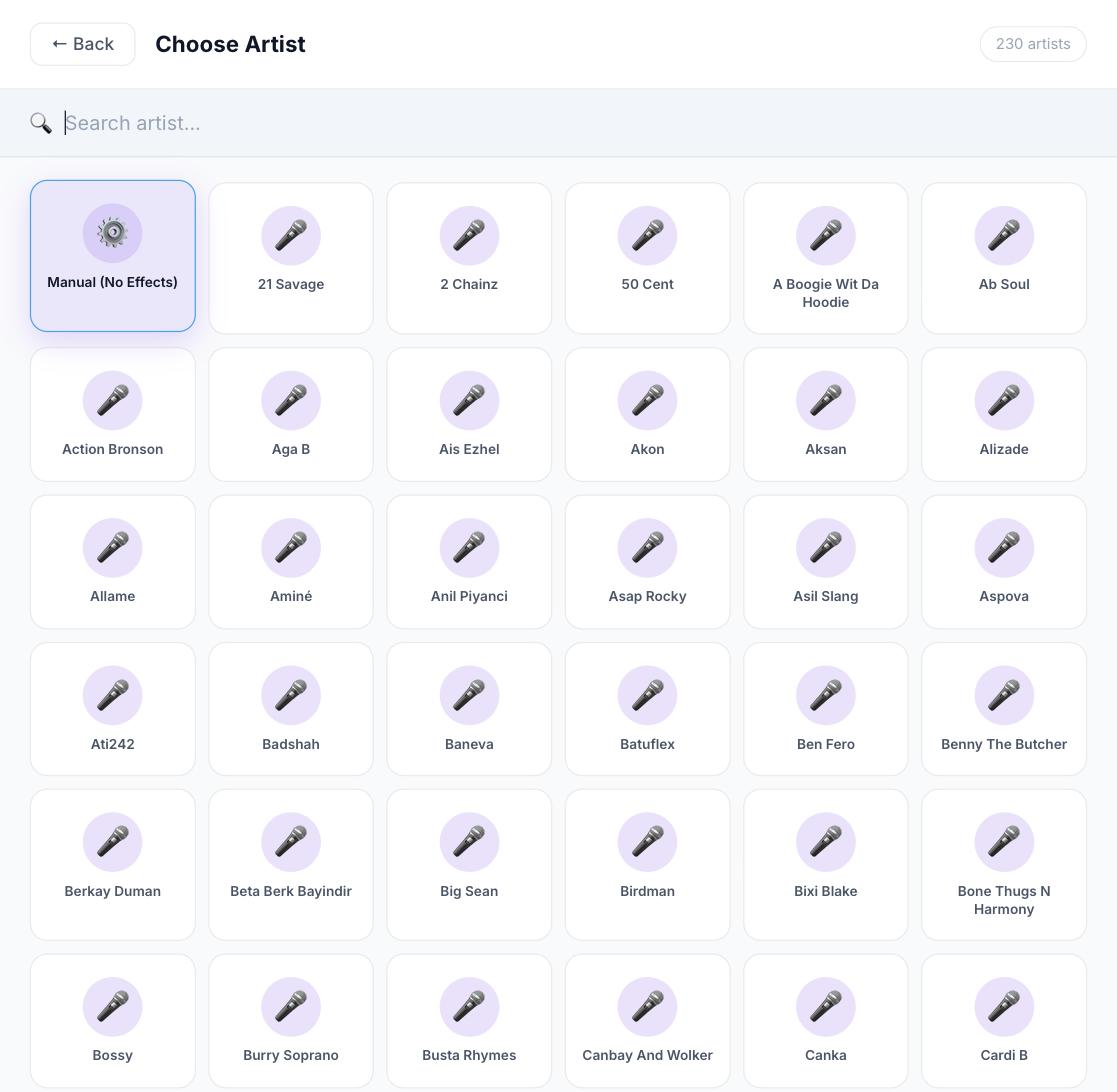
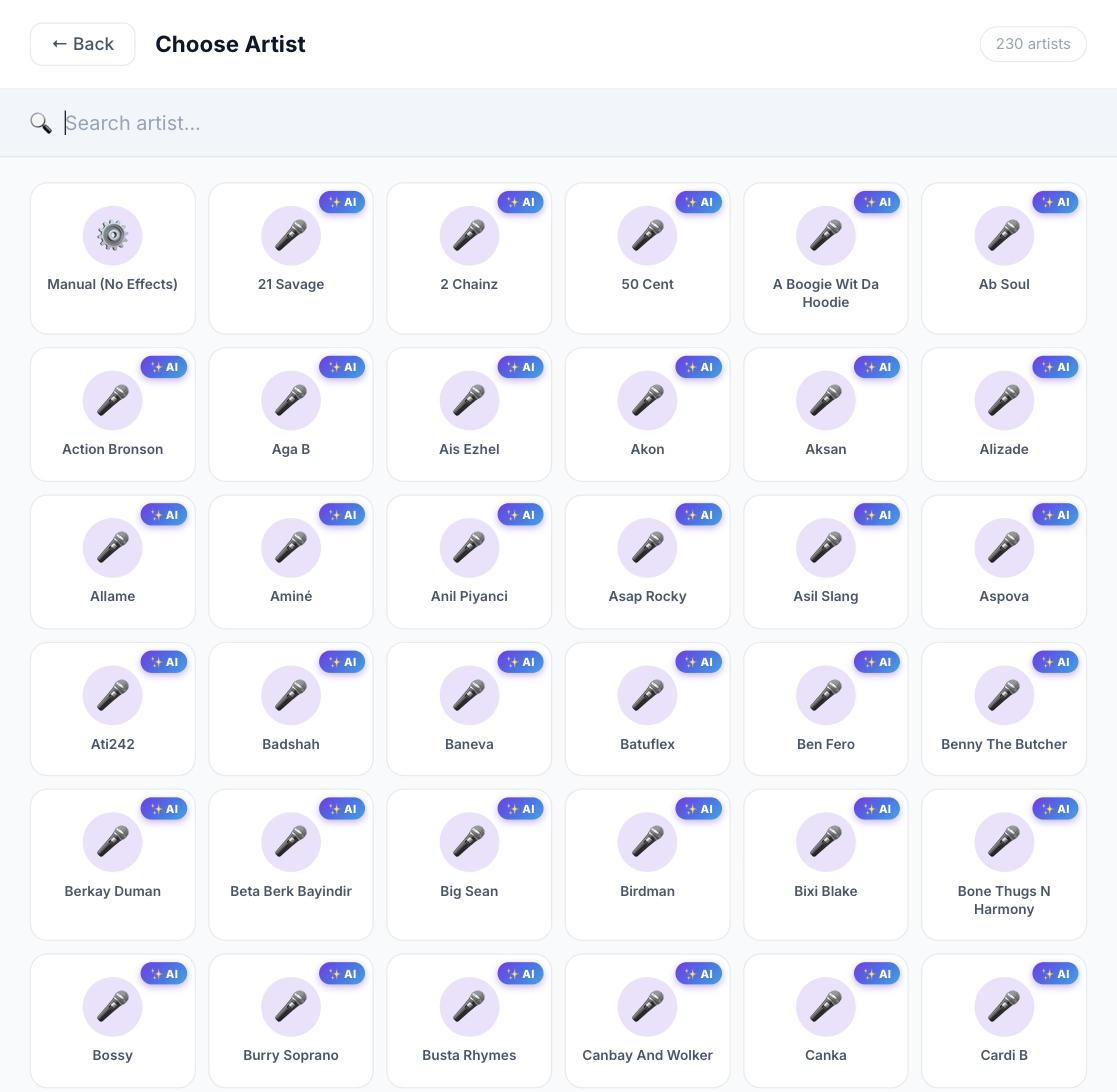
Add AI badge to artist preset cards

diff --git a/frontend/src/index.css b/frontend/src/index.css
@@ -581,11 +581,12 @@ body {
 .picker-search input { flex:1; background:transparent; border:none; outline:none; font-family:inherit; font-size:16px; color:var(--text-primary); }
 .picker-search input::placeholder { color:var(--text-muted); }
 .picker-grid { display:grid; grid-template-columns:repeat(auto-fill,minmax(130px,1fr)); gap:10px; padding:20px 24px; }
-.picker-card { display:flex; flex-direction:column; align-items:center; gap:8px; background:var(--bg-card); border:1px solid var(--border); border-radius:14px; padding:18px 10px; cursor:pointer; font-family:inherit; transition:var(--transition); text-align:center; }
+.picker-card { position:relative; display:flex; flex-direction:column; align-items:center; gap:8px; background:var(--bg-card); border:1px solid var(--border); border-radius:14px; padding:18px 10px; cursor:pointer; font-family:inherit; transition:var(--transition); text-align:center; }
 .picker-card:hover { border-color:var(--primary); background:rgba(124,58,237,0.1); transform:translateY(-2px); box-shadow:0 8px 24px rgba(124,58,237,0.2); }
 .picker-avatar { font-size:26px; width:48px; height:48px; display:flex; align-items:center; justify-content:center; background:rgba(124,58,237,0.15); border-radius:50%; }
 .picker-name { font-size:11px; font-weight:600; color:var(--text-secondary); line-height:1.3; }
 .picker-card:hover .picker-name { color:var(--text-primary); }
+.picker-ai-badge { position:absolute; top:6px; right:6px; font-size:9px; font-weight:800; letter-spacing:0.3px; color:#fff; background:linear-gradient(135deg,#7c3aed,#0ea5e9); padding:2px 7px; border-radius:20px; box-shadow:0 2px 6px rgba(124,58,237,0.4); }
 
 .trial-badge { font-size:12px; color:var(--primary-light); background:rgba(124,58,237,0.15); padding:4px 12px; border-radius:20px; border:1px solid var(--primary); font-weight:500; }
 

diff --git a/frontend/src/pages/StudioPage.jsx b/frontend/src/pages/StudioPage.jsx
@@ -286,6 +286,7 @@ function ArtistPicker({onSelect,onBack}) {
       <div className="picker-grid">
         {list.map(p=>(
           <button key={p} className="picker-card" onClick={()=>onSelect(p)}>
+            {p!=='manuel' && <span className="picker-ai-badge">✨ AI</span>}
             <span className="picker-avatar">{p==='manuel'?'⚙':'🎤'}</span>
             <span className="picker-name">{p==='manuel'?'Manual (No Effects)':fmt(p)}</span>
           </button>

diff --git a/README.md b/README.md
@@ -11,7 +11,7 @@ Tunecraft AI Studio is an AI-powered web application designed to apply professio
 ## Screenshots
 
 ### Artist List
-Browse and search over 230 artist presets.
+Browse and search over 230 artist presets, each tuned by AI.
 
 ![Artist List](docs/screenshots/artist-list.jpg)
 
